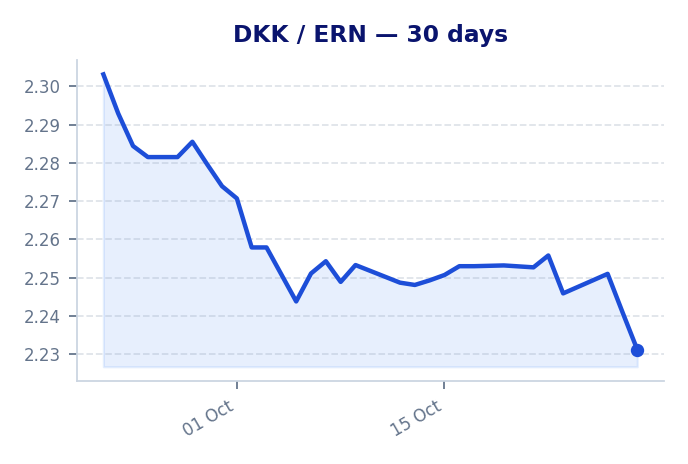
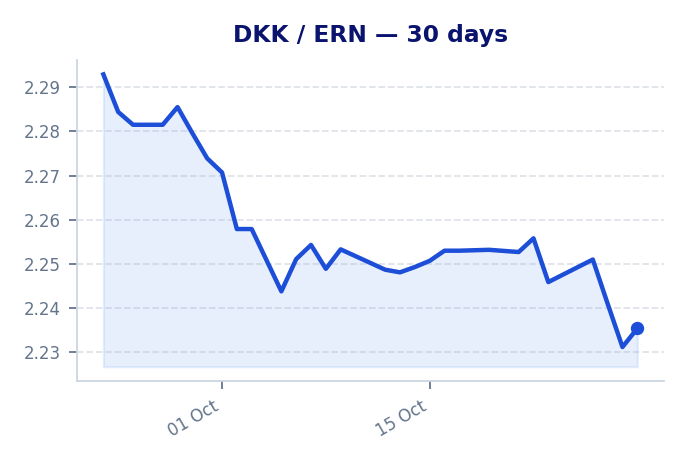
Add files via upload

diff --git a/index.html b/index.html
@@ -912,22 +912,22 @@ tr:hover {
 
             <div class="summary-item">
                 <div class="summary-label">SEK</div>
-                <div class="summary-value">1.5064</div>
+                <div class="summary-value">1.5126</div>
             </div>
 
             <div class="summary-item">
                 <div class="summary-label">NOK</div>
-                <div class="summary-value">1.6067</div>
+                <div class="summary-value">1.6194</div>
             </div>
 
             <div class="summary-item">
                 <div class="summary-label">DKK</div>
-                <div class="summary-value">2.2312</div>
+                <div class="summary-value">2.2354</div>
             </div>
 
             </div>
             <div class="mid-market-meta">
-                <div><span style="font-weight:600" data-i18n="last-updated">Last Updated:</span> 2026-10-28 07:00</div>
+                <div><span style="font-weight:600" data-i18n="last-updated">Last Updated:</span> 2026-10-29 07:03</div>
                 <div style="font-size:0.8rem" data-i18n="mid-market-note">Official mid-market rates collected daily. Actual transfer payout rates shown below.</div>
             </div>
         </div>
@@ -951,7 +951,7 @@ tr:hover {
                 </div>
                 <div class="gainbox">
                     <span class="icon">💡</span> 
-                    <span data-i18n="smart-move">Smart Move: You get <b>+392 ERN</b> more with <b>Ria</b> vs <b>Juba Express</b></span>
+                    <span data-i18n="smart-move">Smart Move: You get <b>+337 ERN</b> more with <b>Ria</b> vs <b>Juba Express</b></span>
                 </div>
             </div>
             
@@ -978,19 +978,19 @@ tr:hover {
 <td class="right font-numeric">0,00</td>
 <td class="right nowrap font-numeric highlight-ern">14 800</td>
 <td class="right nowrap font-numeric">-</td>
-<td class="right font-numeric markup-good">1.75%</td>
+<td class="right font-numeric markup-cell">2.16%</td>
 <td class="right font-numeric hide-mobile"><span class="badge best-badge">Best</span></td>
 </tr>
 
 <tr class="">
 <td class="left">
-    <div class="company-name">Transfer Galaxy</div>
+    <div class="company-name">Remitly</div>
 </td>
-<td class="right font-numeric">1.4673</td>
+<td class="right font-numeric">1.4742</td>
 <td class="right font-numeric">0,00</td>
-<td class="right nowrap font-numeric highlight-ern">14 673</td>
-<td class="right nowrap font-numeric"><span class="loss-text">-127 ERN</span></td>
-<td class="right font-numeric markup-cell">2.60%</td>
+<td class="right nowrap font-numeric highlight-ern">14 742</td>
+<td class="right nowrap font-numeric"><span class="loss-text">-58 ERN</span></td>
+<td class="right font-numeric markup-cell">2.54%</td>
 <td class="right font-numeric hide-mobile"><span class="badge rank-badge">#2</span></td>
 </tr>
 
@@ -998,23 +998,23 @@ tr:hover {
 <td class="left">
     <div class="company-name">Western Union</div>
 </td>
-<td class="right font-numeric">1.4673</td>
+<td class="right font-numeric">1.4728</td>
 <td class="right font-numeric">0,00</td>
-<td class="right nowrap font-numeric highlight-ern">14 673</td>
-<td class="right nowrap font-numeric"><span class="loss-text">-127 ERN</span></td>
-<td class="right font-numeric markup-cell">2.60%</td>
+<td class="right nowrap font-numeric highlight-ern">14 728</td>
+<td class="right nowrap font-numeric"><span class="loss-text">-71 ERN</span></td>
+<td class="right font-numeric markup-cell">2.63%</td>
 <td class="right font-numeric hide-mobile"><span class="badge rank-badge">#3</span></td>
 </tr>
 
 <tr class="">
 <td class="left">
-    <div class="company-name">Remitly</div>
+    <div class="company-name">Transfer Galaxy</div>
 </td>
-<td class="right font-numeric">1.4655</td>
+<td class="right font-numeric">1.4694</td>
 <td class="right font-numeric">0,00</td>
-<td class="right nowrap font-numeric highlight-ern">14 655</td>
-<td class="right nowrap font-numeric"><span class="loss-text">-145 ERN</span></td>
-<td class="right font-numeric markup-cell">2.72%</td>
+<td class="right nowrap font-numeric highlight-ern">14 694</td>
+<td class="right nowrap font-numeric"><span class="loss-text">-106 ERN</span></td>
+<td class="right font-numeric markup-cell">2.86%</td>
 <td class="right font-numeric hide-mobile"><span class="badge rank-badge">#4</span></td>
 </tr>
 
@@ -1022,11 +1022,11 @@ tr:hover {
 <td class="left">
     <div class="company-name">Dahabshiil</div>
 </td>
-<td class="right font-numeric">1.4508</td>
+<td class="right font-numeric">1.4572</td>
 <td class="right font-numeric">0,00</td>
-<td class="right nowrap font-numeric highlight-ern">14 508</td>
-<td class="right nowrap font-numeric"><span class="loss-text">-292 ERN</span></td>
-<td class="right font-numeric markup-cell">3.69%</td>
+<td class="right nowrap font-numeric highlight-ern">14 572</td>
+<td class="right nowrap font-numeric"><span class="loss-text">-228 ERN</span></td>
+<td class="right font-numeric markup-cell">3.66%</td>
 <td class="right font-numeric hide-mobile"><span class="badge rank-badge">#5</span></td>
 </tr>
 
@@ -1034,11 +1034,11 @@ tr:hover {
 <td class="left">
     <div class="company-name">Juba Express</div>
 </td>
-<td class="right font-numeric">1.4407</td>
+<td class="right font-numeric">1.4463</td>
 <td class="right font-numeric">0,00</td>
-<td class="right nowrap font-numeric highlight-ern">14 407</td>
-<td class="right nowrap font-numeric"><span class="loss-text">-392 ERN</span></td>
-<td class="right font-numeric markup-cell">4.36%</td>
+<td class="right nowrap font-numeric highlight-ern">14 463</td>
+<td class="right nowrap font-numeric"><span class="loss-text">-337 ERN</span></td>
+<td class="right font-numeric markup-cell">4.38%</td>
 <td class="right font-numeric hide-mobile"><span class="badge rank-badge">#6</span></td>
 </tr>
 
@@ -1060,11 +1060,11 @@ tr:hover {
             <div class="insight-boxes">
                 <div class="bestbox">
                     <span class="icon">🏆</span> 
-                    <span data-i18n="top-pick">Top Pick: <b>Ria Money Transfer</b> delivers <b>15 710 ERN</b></span>
+                    <span data-i18n="top-pick">Top Pick: <b>Transfer Galaxy</b> delivers <b>15 728 ERN</b></span>
                 </div>
                 <div class="gainbox">
                     <span class="icon">💡</span> 
-                    <span data-i18n="smart-move">Smart Move: You get <b>+868 ERN</b> more with <b>Ria Money Transfer</b> vs <b>Hidmona Money Transfer</b></span>
+                    <span data-i18n="smart-move">Smart Move: You get <b>+886 ERN</b> more with <b>Transfer Galaxy</b> vs <b>Hidmona Money Transfer</b></span>
                 </div>
             </div>
             
@@ -1085,37 +1085,37 @@ tr:hover {
                         
 <tr class="best-row">
 <td class="left">
-    <div class="company-name">Ria Money Transfer</div>
-</td>
-<td class="right font-numeric">1.5710</td>
-<td class="right font-numeric">0,00</td>
-<td class="right nowrap font-numeric highlight-ern">15 710</td>
-<td class="right nowrap font-numeric">-</td>
-<td class="right font-numeric markup-cell">2.22%</td>
-<td class="right font-numeric hide-mobile"><span class="badge best-badge">Best</span></td>
-</tr>
-
-<tr class="">
-<td class="left">
     <div class="company-name">Transfer Galaxy</div>
 </td>
-<td class="right font-numeric">1.5643</td>
+<td class="right font-numeric">1.5728</td>
 <td class="right font-numeric">0,00</td>
-<td class="right nowrap font-numeric highlight-ern">15 643</td>
-<td class="right nowrap font-numeric"><span class="loss-text">-67 ERN</span></td>
-<td class="right font-numeric markup-cell">2.64%</td>
-<td class="right font-numeric hide-mobile"><span class="badge rank-badge">#2</span></td>
+<td class="right nowrap font-numeric highlight-ern">15 728</td>
+<td class="right nowrap font-numeric">-</td>
+<td class="right font-numeric markup-cell">2.88%</td>
+<td class="right font-numeric hide-mobile"><span class="badge best-badge">Best</span></td>
 </tr>
 
 <tr class="">
 <td class="left">
     <div class="company-name">Remitly</div>
 </td>
-<td class="right font-numeric">1.5577</td>
+<td class="right font-numeric">1.5693</td>
 <td class="right font-numeric">0,00</td>
-<td class="right nowrap font-numeric highlight-ern">15 577</td>
-<td class="right nowrap font-numeric"><span class="loss-text">-133 ERN</span></td>
-<td class="right font-numeric markup-cell">3.05%</td>
+<td class="right nowrap font-numeric highlight-ern">15 693</td>
+<td class="right nowrap font-numeric"><span class="loss-text">-35 ERN</span></td>
+<td class="right font-numeric markup-cell">3.09%</td>
+<td class="right font-numeric hide-mobile"><span class="badge rank-badge">#2</span></td>
+</tr>
+
+<tr class="">
+<td class="left">
+    <div class="company-name">Ria Money Transfer</div>
+</td>
+<td class="right font-numeric">1.5670</td>
+<td class="right font-numeric">0,00</td>
+<td class="right nowrap font-numeric highlight-ern">15 670</td>
+<td class="right nowrap font-numeric"><span class="loss-text">-58 ERN</span></td>
+<td class="right font-numeric markup-cell">3.24%</td>
 <td class="right font-numeric hide-mobile"><span class="badge rank-badge">#3</span></td>
 </tr>
 
@@ -1123,11 +1123,11 @@ tr:hover {
 <td class="left">
     <div class="company-name">Juba Express</div>
 </td>
-<td class="right font-numeric">1.5367</td>
+<td class="right font-numeric">1.5487</td>
 <td class="right font-numeric">0,00</td>
-<td class="right nowrap font-numeric highlight-ern">15 367</td>
-<td class="right nowrap font-numeric"><span class="loss-text">-343 ERN</span></td>
-<td class="right font-numeric markup-cell">4.36%</td>
+<td class="right nowrap font-numeric highlight-ern">15 487</td>
+<td class="right nowrap font-numeric"><span class="loss-text">-241 ERN</span></td>
+<td class="right font-numeric markup-cell">4.37%</td>
 <td class="right font-numeric hide-mobile"><span class="badge rank-badge">#4</span></td>
 </tr>
 
@@ -1135,11 +1135,11 @@ tr:hover {
 <td class="left">
     <div class="company-name">Dahabshiil</div>
 </td>
-<td class="right font-numeric">1.4991</td>
+<td class="right font-numeric">1.5116</td>
 <td class="right font-numeric">0,00</td>
-<td class="right nowrap font-numeric highlight-ern">14 991</td>
-<td class="right nowrap font-numeric"><span class="loss-text">-718 ERN</span></td>
-<td class="right font-numeric markup-cell">6.70%</td>
+<td class="right nowrap font-numeric highlight-ern">15 116</td>
+<td class="right nowrap font-numeric"><span class="loss-text">-612 ERN</span></td>
+<td class="right font-numeric markup-cell">6.66%</td>
 <td class="right font-numeric hide-mobile"><span class="badge rank-badge">#5</span></td>
 </tr>
 
@@ -1150,8 +1150,8 @@ tr:hover {
 <td class="right font-numeric">1.4842</td>
 <td class="right font-numeric">0,00</td>
 <td class="right nowrap font-numeric highlight-ern">14 842</td>
-<td class="right nowrap font-numeric"><span class="loss-text">-868 ERN</span></td>
-<td class="right font-numeric markup-cell">7.62%</td>
+<td class="right nowrap font-numeric"><span class="loss-text">-886 ERN</span></td>
+<td class="right font-numeric markup-cell">8.35%</td>
 <td class="right font-numeric hide-mobile"><span class="badge rank-badge">#6</span></td>
 </tr>
 
@@ -1173,11 +1173,11 @@ tr:hover {
             <div class="insight-boxes">
                 <div class="bestbox">
                     <span class="icon">🏆</span> 
-                    <span data-i18n="top-pick">Top Pick: <b>Western Union</b> delivers <b>22 059 ERN</b></span>
+                    <span data-i18n="top-pick">Top Pick: <b>Ria Money Transfer</b> delivers <b>22 230 ERN</b></span>
                 </div>
                 <div class="gainbox">
                     <span class="icon">💡</span> 
-                    <span data-i18n="smart-move">Smart Move: You get <b>+720 ERN</b> more with <b>Western Union</b> vs <b>Juba Express</b></span>
+                    <span data-i18n="smart-move">Smart Move: You get <b>+853 ERN</b> more with <b>Ria Money Transfer</b> vs <b>Juba Express</b></span>
                 </div>
             </div>
             
@@ -1198,26 +1198,38 @@ tr:hover {
                         
 <tr class="best-row">
 <td class="left">
-    <div class="company-name">Western Union</div>
+    <div class="company-name">Ria Money Transfer</div>
 </td>
-<td class="right font-numeric">2.2059</td>
+<td class="right font-numeric">2.2230</td>
 <td class="right font-numeric">0,00</td>
-<td class="right nowrap font-numeric highlight-ern">22 059</td>
+<td class="right nowrap font-numeric highlight-ern">22 230</td>
 <td class="right nowrap font-numeric">-</td>
-<td class="right font-numeric markup-good">1.13%</td>
+<td class="right font-numeric markup-good">0.55%</td>
 <td class="right font-numeric hide-mobile"><span class="badge best-badge">Best</span></td>
 </tr>
 
 <tr class="">
 <td class="left">
-    <div class="company-name">Ria Money Transfer</div>
+    <div class="company-name">Western Union</div>
 </td>
-<td class="right font-numeric">2.2000</td>
+<td class="right font-numeric">2.2114</td>
 <td class="right font-numeric">0,00</td>
-<td class="right nowrap font-numeric highlight-ern">22 000</td>
-<td class="right nowrap font-numeric"><span class="loss-text">-59 ERN</span></td>
-<td class="right font-numeric markup-good">1.40%</td>
+<td class="right nowrap font-numeric highlight-ern">22 113</td>
+<td class="right nowrap font-numeric"><span class="loss-text">-116 ERN</span></td>
+<td class="right font-numeric markup-good">1.07%</td>
 <td class="right font-numeric hide-mobile"><span class="badge rank-badge">#2</span></td>
+</tr>
+
+<tr class="">
+<td class="left">
+    <div class="company-name">Remitly</div>
+</td>
+<td class="right font-numeric">2.1829</td>
+<td class="right font-numeric">0,00</td>
+<td class="right nowrap font-numeric highlight-ern">21 829</td>
+<td class="right nowrap font-numeric"><span class="loss-text">-401 ERN</span></td>
+<td class="right font-numeric markup-cell">2.35%</td>
+<td class="right font-numeric hide-mobile"><span class="badge rank-badge">#3</span></td>
 </tr>
 
 <tr class="">
@@ -1227,20 +1239,8 @@ tr:hover {
 <td class="right font-numeric">2.1817</td>
 <td class="right font-numeric">0,00</td>
 <td class="right nowrap font-numeric highlight-ern">21 817</td>
-<td class="right nowrap font-numeric"><span class="loss-text">-242 ERN</span></td>
-<td class="right font-numeric markup-cell">2.22%</td>
-<td class="right font-numeric hide-mobile"><span class="badge rank-badge">#3</span></td>
-</tr>
-
-<tr class="">
-<td class="left">
-    <div class="company-name">Remitly</div>
-</td>
-<td class="right font-numeric">2.1783</td>
-<td class="right font-numeric">0,00</td>
-<td class="right nowrap font-numeric highlight-ern">21 783</td>
-<td class="right nowrap font-numeric"><span class="loss-text">-276 ERN</span></td>
-<td class="right font-numeric markup-cell">2.37%</td>
+<td class="right nowrap font-numeric"><span class="loss-text">-412 ERN</span></td>
+<td class="right font-numeric markup-cell">2.40%</td>
 <td class="right font-numeric hide-mobile"><span class="badge rank-badge">#4</span></td>
 </tr>
 
@@ -1248,11 +1248,11 @@ tr:hover {
 <td class="left">
     <div class="company-name">Transfer Galaxy</div>
 </td>
-<td class="right font-numeric">2.1742</td>
+<td class="right font-numeric">2.1720</td>
 <td class="right font-numeric">0,00</td>
-<td class="right nowrap font-numeric highlight-ern">21 742</td>
-<td class="right nowrap font-numeric"><span class="loss-text">-317 ERN</span></td>
-<td class="right font-numeric markup-cell">2.55%</td>
+<td class="right nowrap font-numeric highlight-ern">21 720</td>
+<td class="right nowrap font-numeric"><span class="loss-text">-510 ERN</span></td>
+<td class="right font-numeric markup-cell">2.84%</td>
 <td class="right font-numeric hide-mobile"><span class="badge rank-badge">#5</span></td>
 </tr>
 
@@ -1260,11 +1260,11 @@ tr:hover {
 <td class="left">
     <div class="company-name">Juba Express</div>
 </td>
-<td class="right font-numeric">2.1339</td>
+<td class="right font-numeric">2.1377</td>
 <td class="right font-numeric">0,00</td>
-<td class="right nowrap font-numeric highlight-ern">21 339</td>
-<td class="right nowrap font-numeric"><span class="loss-text">-720 ERN</span></td>
-<td class="right font-numeric markup-cell">4.36%</td>
+<td class="right nowrap font-numeric highlight-ern">21 377</td>
+<td class="right nowrap font-numeric"><span class="loss-text">-853 ERN</span></td>
+<td class="right font-numeric markup-cell">4.37%</td>
 <td class="right font-numeric hide-mobile"><span class="badge rank-badge">#6</span></td>
 </tr>
 
@@ -1282,7 +1282,7 @@ tr:hover {
             <div class="chart-card">
                 <div class="chart-header">
                     <img src="https://flagcdn.com/w40/se.png" class="flag-sm" alt="Sweden" width="24" height="16" loading="lazy" decoding="async"> <span>SEK / ERN</span>
-                    <span class="trend-badge down">▼ 1.3%</span>
+                    <span class="trend-badge down">▼ 0.7%</span>
                 </div>
                 <img src="sek_chart.png" class="chart-img" alt="SEK to ERN exchange-rate trend over the last 30 days" loading="lazy" decoding="async" width="688" height="464">
             </div>
@@ -1290,7 +1290,7 @@ tr:hover {
             <div class="chart-card">
                 <div class="chart-header">
                     <img src="https://flagcdn.com/w40/no.png" class="flag-sm" alt="Norway" width="24" height="16" loading="lazy" decoding="async"> <span>NOK / ERN</span>
-                    <span class="trend-badge up">▲ 1.0%</span>
+                    <span class="trend-badge up">▲ 2.2%</span>
                 </div>
                 <img src="nok_chart.png" class="chart-img" alt="NOK to ERN exchange-rate trend over the last 30 days" loading="lazy" decoding="async" width="688" height="464">
             </div>
@@ -1298,7 +1298,7 @@ tr:hover {
             <div class="chart-card">
                 <div class="chart-header">
                     <img src="https://flagcdn.com/w40/dk.png" class="flag-sm" alt="Denmark" width="24" height="16" loading="lazy" decoding="async"> <span>DKK / ERN</span>
-                    <span class="trend-badge down">▼ 3.1%</span>
+                    <span class="trend-badge down">▼ 2.5%</span>
                 </div>
                 <img src="dkk_chart.png" class="chart-img" alt="DKK to ERN exchange-rate trend over the last 30 days" loading="lazy" decoding="async" width="688" height="464">
             </div>
@@ -1361,7 +1361,7 @@ tr:hover {
         "calculator-note": "እቲ ዝበለጸ ክፍሊት ንዝኣተኻዮ መጠን ብተመሳሳሊ ሕሳብ ዋጋን ክፍሊትን ከም ሰንጠረዥ ይደጋገም።"
     };
 
-    const calculatorData = {"SEK": [{"provider": "Ria", "rate": 1.48, "total_fee": 0.0}, {"provider": "Transfer Galaxy", "rate": 1.4673, "total_fee": 0.0}, {"provider": "Western Union", "rate": 1.4673, "total_fee": 0.0}, {"provider": "Remitly", "rate": 1.4655, "total_fee": 0.0}, {"provider": "Dahabshiil", "rate": 1.4508, "total_fee": 0.0}, {"provider": "Juba Express", "rate": 1.4407, "total_fee": 0.0}], "NOK": [{"provider": "Ria Money Transfer", "rate": 1.571, "total_fee": 0.0}, {"provider": "Transfer Galaxy", "rate": 1.5643, "total_fee": 0.0}, {"provider": "Remitly", "rate": 1.5577, "total_fee": 0.0}, {"provider": "Juba Express", "rate": 1.5367, "total_fee": 0.0}, {"provider": "Dahabshiil", "rate": 1.4991, "total_fee": 0.0}, {"provider": "Hidmona Money Transfer", "rate": 1.4842, "total_fee": 0.0}], "DKK": [{"provider": "Western Union", "rate": 2.2059, "total_fee": 0.0}, {"provider": "Ria Money Transfer", "rate": 2.2, "total_fee": 0.0}, {"provider": "Hidmona Money Transfer", "rate": 2.1817, "total_fee": 0.0}, {"provider": "Remitly", "rate": 2.1783, "total_fee": 0.0}, {"provider": "Transfer Galaxy", "rate": 2.1742, "total_fee": 0.0}, {"provider": "Juba Express", "rate": 2.1339, "total_fee": 0.0}]};
+    const calculatorData = {"SEK": [{"provider": "Ria", "rate": 1.48, "total_fee": 0.0}, {"provider": "Remitly", "rate": 1.4742, "total_fee": 0.0}, {"provider": "Western Union", "rate": 1.4728, "total_fee": 0.0}, {"provider": "Transfer Galaxy", "rate": 1.4694, "total_fee": 0.0}, {"provider": "Dahabshiil", "rate": 1.4572, "total_fee": 0.0}, {"provider": "Juba Express", "rate": 1.4463, "total_fee": 0.0}], "NOK": [{"provider": "Transfer Galaxy", "rate": 1.5728, "total_fee": 0.0}, {"provider": "Remitly", "rate": 1.5693, "total_fee": 0.0}, {"provider": "Ria Money Transfer", "rate": 1.567, "total_fee": 0.0}, {"provider": "Juba Express", "rate": 1.5487, "total_fee": 0.0}, {"provider": "Dahabshiil", "rate": 1.5116, "total_fee": 0.0}, {"provider": "Hidmona Money Transfer", "rate": 1.4842, "total_fee": 0.0}], "DKK": [{"provider": "Ria Money Transfer", "rate": 2.223, "total_fee": 0.0}, {"provider": "Western Union", "rate": 2.2114, "total_fee": 0.0}, {"provider": "Remitly", "rate": 2.1829, "total_fee": 0.0}, {"provider": "Hidmona Money Transfer", "rate": 2.1817, "total_fee": 0.0}, {"provider": "Transfer Galaxy", "rate": 2.172, "total_fee": 0.0}, {"provider": "Juba Express", "rate": 2.1377, "total_fee": 0.0}]};
     const labels = [...document.querySelectorAll('[data-i18n]')];
     const english = new Map(labels.map(el => [el, el.innerHTML]));
 
